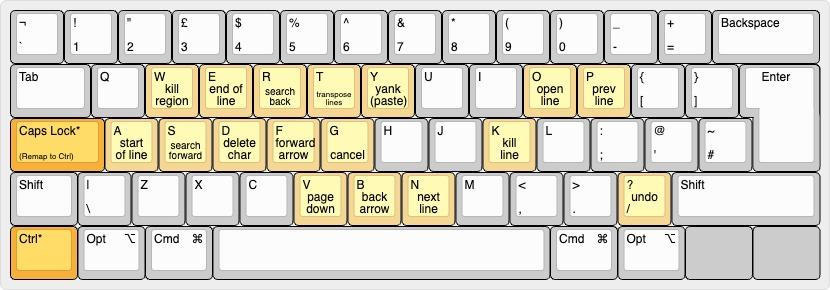
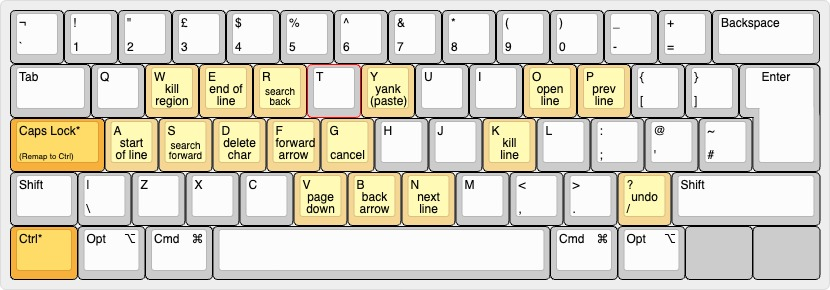
Update karabiner keymaps

Changed region(s): [[0.3614, 0.2172, 0.4518, 0.4345]]

diff --git a/content/posts/hammerspoon-to-karabiner/index.md b/content/posts/hammerspoon-to-karabiner/index.md
@@ -36,7 +36,7 @@ end
 This entry point controls the **three** major types of shortcuts: **Ctrl**, **Option** and the chord **Ctrl+x**. 
 
 [](#keymaps)
-## Control Keys (ctrl)
+## Control Keys (Hctrl)
 
 These are fundamental Emacs shortcuts for navigation and other basic actions. Most of these shortcuts are already supported in macOS by default and did not need to be remapped.
 